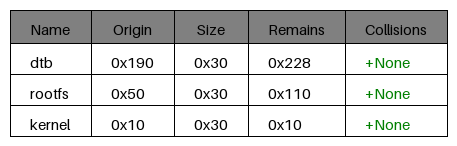
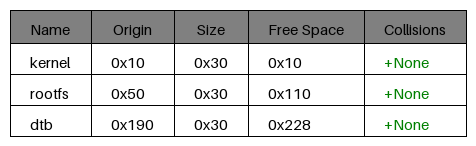
updated doc files

diff --git a/doc/example/tests.test_docs_collisions.md b/doc/example/tests.test_docs_collisions.md
@@ -1,6 +1,6 @@
-![memory map diagram](tests.test_docs_collisions.png)
-|name|origin|size|remaining|collisions
+![memory map diagram](tests.test_docs_collisions_cropped.png)
+|name|origin|size|free Space|collisions
 |:-|:-|:-|:-|:-|
-|<span style='color:darkred'>kernel</span>|0x10|0x60|-0x20|{'rootfs': '0x50'}|
-|<span style='color:slateblue'>rootfs</span>|0x50|0x50|-0x10|{'kernel': '0x50', 'dtb': '0x90'}|
-|<span style='color:darkcyan'>dtb</span>|0x90|0x30|0x328|{'rootfs': '0x90'}|
+|<span style='color:forestgreen'>kernel</span>|0x10|0x60|-0x20|{'rootfs': '0x50'}|
+|<span style='color:skyblue'>rootfs</span>|0x50|0x50|-0x10|{'kernel': '0x50', 'dtb': '0x90'}|
+|<span style='color:royalblue'>dtb</span>|0x90|0x30|0x328|{'rootfs': '0x90'}|

diff --git a/doc/example/tests.test_docs_normal.md b/doc/example/tests.test_docs_normal.md
@@ -1,6 +1,6 @@
-![memory map diagram](tests.test_docs_normal.png)
-|name|origin|size|remaining|collisions
+![memory map diagram](tests.test_docs_normal_cropped.png)
+|name|origin|size|free Space|collisions
 |:-|:-|:-|:-|:-|
-|<span style='color:lightslategrey'>kernel</span>|0x10|0x30|0x10|{}|
-|<span style='color:mediumblue'>rootfs</span>|0x50|0x30|0x110|{}|
-|<span style='color:slategrey'>dtb</span>|0x190|0x30|0x228|{}|
+|<span style='color:dimgrey'>kernel</span>|0x10|0x30|0x10|{}|
+|<span style='color:aqua'>rootfs</span>|0x50|0x30|0x110|{}|
+|<span style='color:mediumpurple'>dtb</span>|0x190|0x30|0x228|{}|
